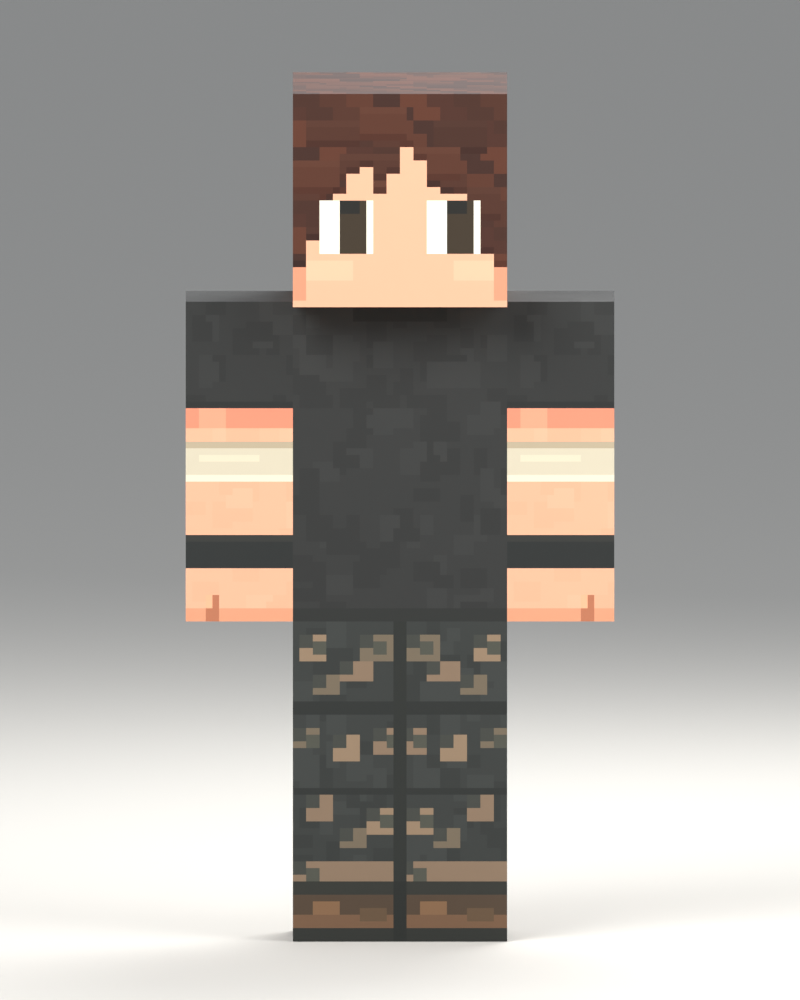
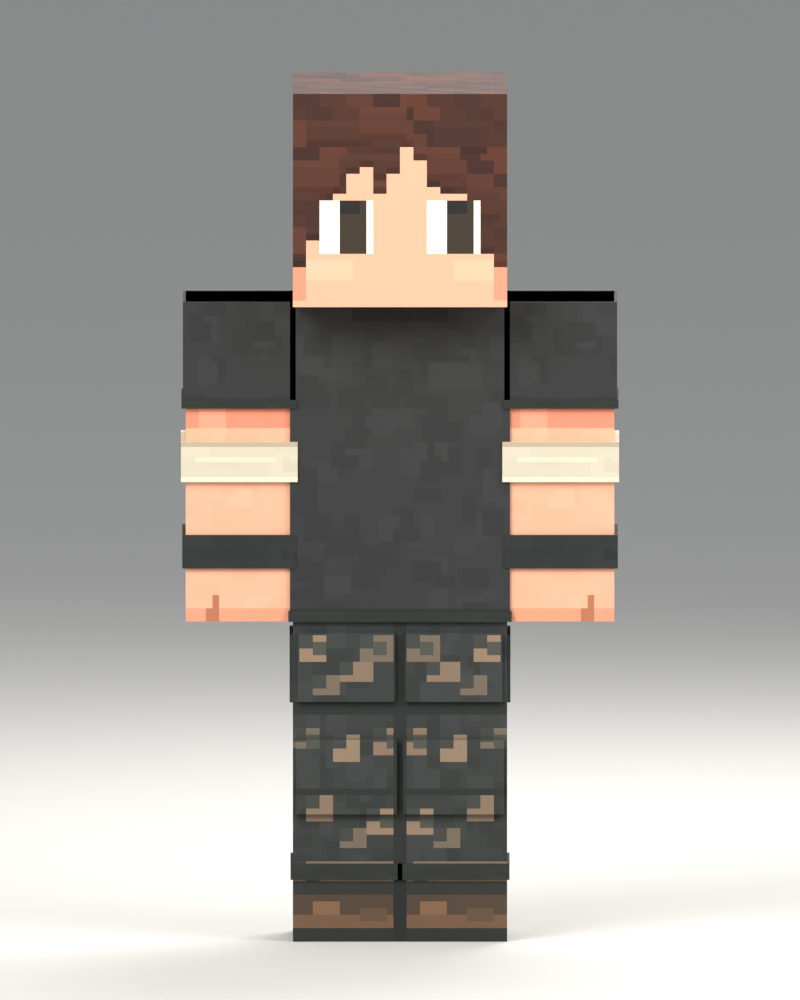
chore(project): adjust project: 8 project files
Modified: 8.
Text lines: +115 / -9; binary files: 3.
- Modify: "blender/characters/player/reviews/survivor_reference_v001/Survivor_Reference_v001.blend"
- Modify: "blender/characters/player/reviews/survivor_reference_v001/atlas_regions.json"
- Modify: "blender/characters/player/reviews/survivor_reference_v001/build_candidate.py"
- Modify: "blender/characters/player/reviews/survivor_reference_v001/make_atlas.py"
- Modify: "blender/characters/player/reviews/survivor_reference_v001/model_validation.json"
- Modify: "blender/characters/player/reviews/survivor_reference_v001/renders/Front.png" (binary)
- Modify: "blender/characters/player/reviews/survivor_reference_v001/renders/Front_3Q.png" (binary)
- Modify: "blender/characters/player/reviews/survivor_reference_v001/survivor_atlas.png" (binary)

diff --git a/blender/characters/player/reviews/survivor_reference_v001/build_candidate.py b/blender/characters/player/reviews/survivor_reference_v001/build_candidate.py
@@ -19,7 +19,7 @@ bpy.ops.wm.read_factory_settings(use_empty=True)
 bpy.context.preferences.filepaths.save_version=0
 scene=bpy.context.scene;scene.name='Survivor Skin Review — PENDING'
 scene['review_status']='Pending';scene['candidate']='Survivor_Reference_v001'
-scene['scope']='SKIN ONLY; exact original six cuboids and rest skeleton; no Godot integration'
+scene['scope']='Original six cuboids unchanged; skin plus requested3D shirt, bands and trouser relief; no Godot'
 scene.unit_settings.system='METRIC';scene.unit_settings.scale_length=1.
 asset=bpy.data.collections.new('ASSET — original body / new skin (Pending)');scene.collection.children.link(asset)
 preview=bpy.data.collections.new('REVIEW — cameras and studio');scene.collection.children.link(preview)
@@ -89,18 +89,84 @@ for poly in character.data.polygons:
    v=(co.z-lo.z)/span.z
   uv.data[li].uv=((x+.02+u*(w-.04))/512,(512-y-h+.02+v*(h-.04))/512)
  poly.material_index=0;poly.use_smooth=False
+
+# USER-REQUESTED EXCEPTIONS: lightweight external clothes, never reshape the base.
+overlays=[]
+def cloth_mesh(name,vertices,faces,bone,override=None,edge=None):
+ mesh=bpy.data.meshes.new(name);mesh.from_pydata(vertices,[],faces);mesh.update()
+ obj=bpy.data.objects.new(name,mesh);asset.objects.link(obj);mesh.materials.append(material)
+ group=obj.vertex_groups.new(name=bone);group.add(list(range(len(vertices))),1.,'REPLACE')
+ texcoords=mesh.uv_layers.new(name='Survivor_Skin')
+ lo=Vector(body_bounds[bone]['min']);hi=Vector(body_bounds[bone]['max']);span=hi-lo
+ for poly in mesh.polygons:
+  normal=poly.normal
+  tile=override or (edge if edge and abs(normal.z)>.5 else region_for(bone,normal))
+  x,y,w,h=regions[tile]
+  for n,li in enumerate(poly.loop_indices):
+   co=mesh.vertices[mesh.loops[li].vertex_index].co
+   if override or (edge and abs(normal.z)>.5):u,v=[(0,0),(1,0),(1,1),(0,1)][n]
+   elif abs(normal.z)>.5:u=(co.x-lo.x)/span.x;v=(co.y-lo.y)/span.y
+   elif abs(normal.y)>.5:u=((co.x-lo.x) if normal.y<0 else (hi.x-co.x))/span.x;v=(co.z-lo.z)/span.z
+   else:u=((co.y-lo.y) if normal.x>0 else (hi.y-co.y))/span.y;v=(co.z-lo.z)/span.z
+   u=max(0,min(1,u));v=max(0,min(1,v))
+   texcoords.data[li].uv=((x+.02+u*(w-.04))/512,(512-y-h+.02+v*(h-.04))/512)
+  poly.use_smooth=False
+ overlays.append(obj);return obj
+
+def cloth_box(name,center,size,bone,edge):
+ x,y,z=[v/2 for v in size];cx,cy,cz=center
+ verts=[(cx+a*x,cy+b*y,cz+c*z) for a,b,c in [(-1,-1,-1),(1,-1,-1),(1,1,-1),(-1,1,-1),(-1,-1,1),(1,-1,1),(1,1,1),(-1,1,1)]]
+ faces=[(0,1,5,4),(2,3,7,6),(1,2,6,5),(3,0,4,7),(4,5,6,7),(3,2,1,0)]
+ return cloth_mesh(name,verts,faces,bone,edge=edge)
+
+def ring(name,cx,cy,cz,inner_w,inner_d,thickness,height,bone,tile):
+ verts=[]
+ for z in [cz-height/2,cz+height/2]:
+  for w,d in [(inner_w/2+thickness,inner_d/2+thickness),(inner_w/2,inner_d/2)]:
+   verts += [(cx-w,cy-d,z),(cx+w,cy-d,z),(cx+w,cy+d,z),(cx-w,cy+d,z)]
+ faces=[]
+ for i in range(4):
+  j=(i+1)%4
+  faces.extend([(i,j,8+j,8+i),(4+j,4+i,12+i,12+j),(8+i,8+j,12+j,12+i),(j,i,4+i,4+j)])
+ return cloth_mesh(name,verts,faces,bone,override=tile)
+
+# A6mm shirt layer/hem and short sleeves, retaining original shoulder/waist heights.
+cloth_box('Black shirt / thin external layer',(0,0,1.0125),(.462,.237,.675),'Chest','shirt3d_edge')
+ring('Shirt lower hem',0,0,.686,.462,.237,.0035,.022,'Chest','shirt3d_edge')
+for side,sign in [('L',1),('R',-1)]:
+ cx=sign*.3375
+ cloth_box('Black short sleeve '+side,(cx,0,1.2375),(.237,.237,.225),'Arm.'+side,'shirt3d_edge')
+ ring('Sleeve hem '+side,cx,0,1.134,.237,.237,.003,.018,'Arm.'+side,'shirt3d_edge')
+ ring('White forearm wrap '+side,cx,0,1.0125,.225,.225,.010,.084375,'Arm.'+side,'wrap3d')
+ ring('Black wrist band '+side,cx,0,.82265625,.225,.225,.0075,.0703125,'Arm.'+side,'band3d')
+ # Broad stepped fabric panels,6–10mm relief; no added bag or redesigned limb.
+ lx=sign*.1125
+ cloth_box('Raised upper trouser panel '+side,(lx,-.1175,.579),(.205,.010,.145),'Leg.'+side,'pants3d_edge')
+ cloth_box('Raised knee fabric panel '+side,(lx,-.118,.348),(.212,.011,.158),'Leg.'+side,'pants3d_edge')
+ cloth_box('Outer trouser fabric panel '+side,(lx+sign*.116,0,.574),(.007,.199,.142),'Leg.'+side,'pants3d_edge')
+ ring('Trouser lower hem '+side,lx,0,.147,.225,.225,.005,.034,'Leg.'+side,'pants3d_edge')
+bpy.ops.object.select_all(action='DESELECT')
+for obj in overlays:obj.select_set(True)
+bpy.context.view_layer.objects.active=overlays[0];bpy.ops.object.join();clothes=bpy.context.object
+clothes.name='Survivor_Clothing_3D — requested outer relief'
+for poly in clothes.data.polygons:poly.material_index=0
+while len(clothes.data.materials)>1:clothes.data.materials.pop(index=len(clothes.data.materials)-1)
+mod=clothes.modifiers.new('Original rigid bone weights','ARMATURE');mod.object=rig;clothes.parent=rig
+clothes['scope']='Requested3D shirt / white-black arm rings / trouser relief only'
+clothes.data.calc_loop_triangles()
+
 # Nothing below changes any body vertex, face, normal, bone or skin weight.
 assert geometry_signature(character.data)==original_geometry
 assert original_weights==[[(g.group,g.weight) for g in v.groups] for v in character.data.vertices]
 assert original_rest=={b.name:list(x for row in b.matrix_local for x in row) for b in rig.data.bones}
-character['review_status']='Pending';character['skin_only']=True;character['no_neck_geometry']=True
+character['review_status']='Pending';character['skin_only']=False;character['original_body_unchanged']=True;character['no_neck_geometry']=True
 character['body_geometry_sha256']=original_geometry;character['body_source']='blender/characters/player/cuboid/player_cuboid_v6.blend'
 character['primary_reference_sha256']=hashlib.sha256((OUT/'primary_reference.png').read_bytes()).hexdigest()
 character.asset_mark();character.asset_data.description='Pending skin-only reference review on the exact original V6 body; eyes only, no nose or mouth.'
 reference=bpy.data.images.load(str(OUT/'primary_reference.png'));reference.name='PRIMARY — supplied six-view character';reference.pack();reference.use_fake_user=True
 ref=bpy.data.objects.new('PRIMARY REFERENCE — viewport only',None);refs.objects.link(ref);ref.empty_display_type='IMAGE';ref.data=reference;ref.empty_display_size=2.5;ref.location=(2,1,1);ref.hide_render=True;ref.hide_set(True)
 notes=bpy.data.texts.new('START HERE — SKIN ONLY')
-notes.write('PENDING / Survivor Reference v001\nExact original six-cuboid V6 body:48vertices, no added geometry or neck.\nOnly UV/material/skin changed; original rigid groups/rest skeleton retained.\nLarge eyes only; no nose/mouth. Hair is painted onto the ORIGINAL head cube.\nNo volumetric hair, cuffs/panels/boots, new Action, or Godot integration.\nCameras Front / Front_3Q / Left_Side / Back / Right_Side / Back_3Q.\nNumpad0: camera view; F12: render. All images packed.\n')
+notes.write('PENDING / Survivor Reference v001\nExact original six-cuboid V6 base mesh:48vertices, unchanged proportions and no neck.\nNew skin plus user-requested3D clothing: white/black arm bands, black shirt and trouser relief.\nLarge eyes only; no nose/mouth. Hair remains painted on the original head cube.\nNo new Action or Godot integration.\nCameras Front / Front_3Q / Left_Side / Back / Right_Side / Back_3Q.\nNumpad0: camera; F12: render. Images packed.\n')
 
 def studio_mat(name,color):
  m=bpy.data.materials.new(name);m.diffuse_color=(*color,1);m.use_nodes=True
@@ -133,10 +199,10 @@ for m in list(bpy.data.materials):
  if m.users==0:bpy.data.materials.remove(m)
 for im in list(bpy.data.images):
  if im.users==0 and not im.use_fake_user:bpy.data.images.remove(im)
-scene['review_cameras']=json.dumps(list(views));scene['skin_only']=True
+scene['review_cameras']=json.dumps(list(views));scene['skin_only']=False;scene['original_body_unchanged']=True;scene['requested_clothing_relief']=True
 bpy.ops.wm.save_as_mainfile(filepath=str(FILE),compress=True)
 character.data.calc_loop_triangles()
-report={'candidate':FILE.name,'status':'Pending','skin_only':True,'vertices':len(character.data.vertices),'triangles':len(character.data.loop_triangles),'quads':len(character.data.polygons),'materials':len(character.data.materials),'bones':len(rig.data.bones),'actions':len(bpy.data.actions),'body_source_sha256':source_hash,'body_geometry_sha256':original_geometry,'geometry_exact':geometry_signature(character.data)==original_geometry,'rest_skeleton_exact':True,'weights_exact':True,'no_neck_geometry':True,'no_nose_or_mouth':True,'no_volumetric_additions':True,'rigid_bounds_m':body_bounds,'packed_images':[im.name for im in bpy.data.images if im.packed_file],'review_cameras':list(views),'gameplay_integrated':False}
+report={'candidate':FILE.name,'status':'Pending','skin_only':False,'original_body_unchanged':True,'vertices':len(character.data.vertices),'triangles':len(character.data.loop_triangles),'quads':len(character.data.polygons),'materials':len(character.data.materials),'bones':len(rig.data.bones),'actions':len(bpy.data.actions),'body_source_sha256':source_hash,'body_geometry_sha256':original_geometry,'geometry_exact':geometry_signature(character.data)==original_geometry,'rest_skeleton_exact':True,'weights_exact':True,'no_neck_geometry':True,'no_nose_or_mouth':True,'added_3d_clothing_only':True,'clothing_vertices':len(clothes.data.vertices),'clothing_triangles':len(clothes.data.loop_triangles),'clothing_parts':['Black shirt and short sleeves','White forearm wraps','Black wrist bands','Trouser fabric panels and hems'],'volumetric_hair':False,'rigid_bounds_m':body_bounds,'packed_images':[im.name for im in bpy.data.images if im.packed_file],'review_cameras':list(views),'gameplay_integrated':False}
 assert report['vertices']==48 and report['triangles']==72 and report['quads']==36 and report['actions']==0
 assert hashlib.sha256(SOURCE.read_bytes()).hexdigest()==source_hash
 (OUT/'model_validation.json').write_text(json.dumps(report,indent=2));print('MODEL_VALIDATION',json.dumps(report),flush=True)

diff --git a/blender/characters/player/reviews/survivor_reference_v001/make_atlas.py b/blender/characters/player/reviews/survivor_reference_v001/make_atlas.py
@@ -119,5 +119,11 @@ for side in ['L','R']:
   store('leg_'+side+'_'+face,im)
  im,d=paint(16,16,(48,51,48),50,4);store('leg_'+side+'_top',im)
  im,d=paint(16,16,(35,37,33),52,3);store('leg_'+side+'_bottom',im)
+# Explicitly requested3D clothing reuses this one atlas.
+for name,color in [('wrap3d',(205,195,171)),('band3d',(34,37,36)),('shirt3d_edge',(35,37,35)),('pants3d_edge',(37,40,36))]:
+ im,d=paint(16,8,color,88,3)
+ if name=='wrap3d':
+  d.rectangle((0,0,15,0),fill=(179,164,138));d.rectangle((0,7,15,7),fill=(231,218,189));d.rectangle((2,3,12,3),fill=(218,208,180))
+ store(name,im)
 ATLAS.save(OUT/'survivor_atlas.png');(OUT/'atlas_regions.json').write_text(json.dumps(regions,indent=2))
 print('Painted skin-only atlas:',len(regions),'regions')
